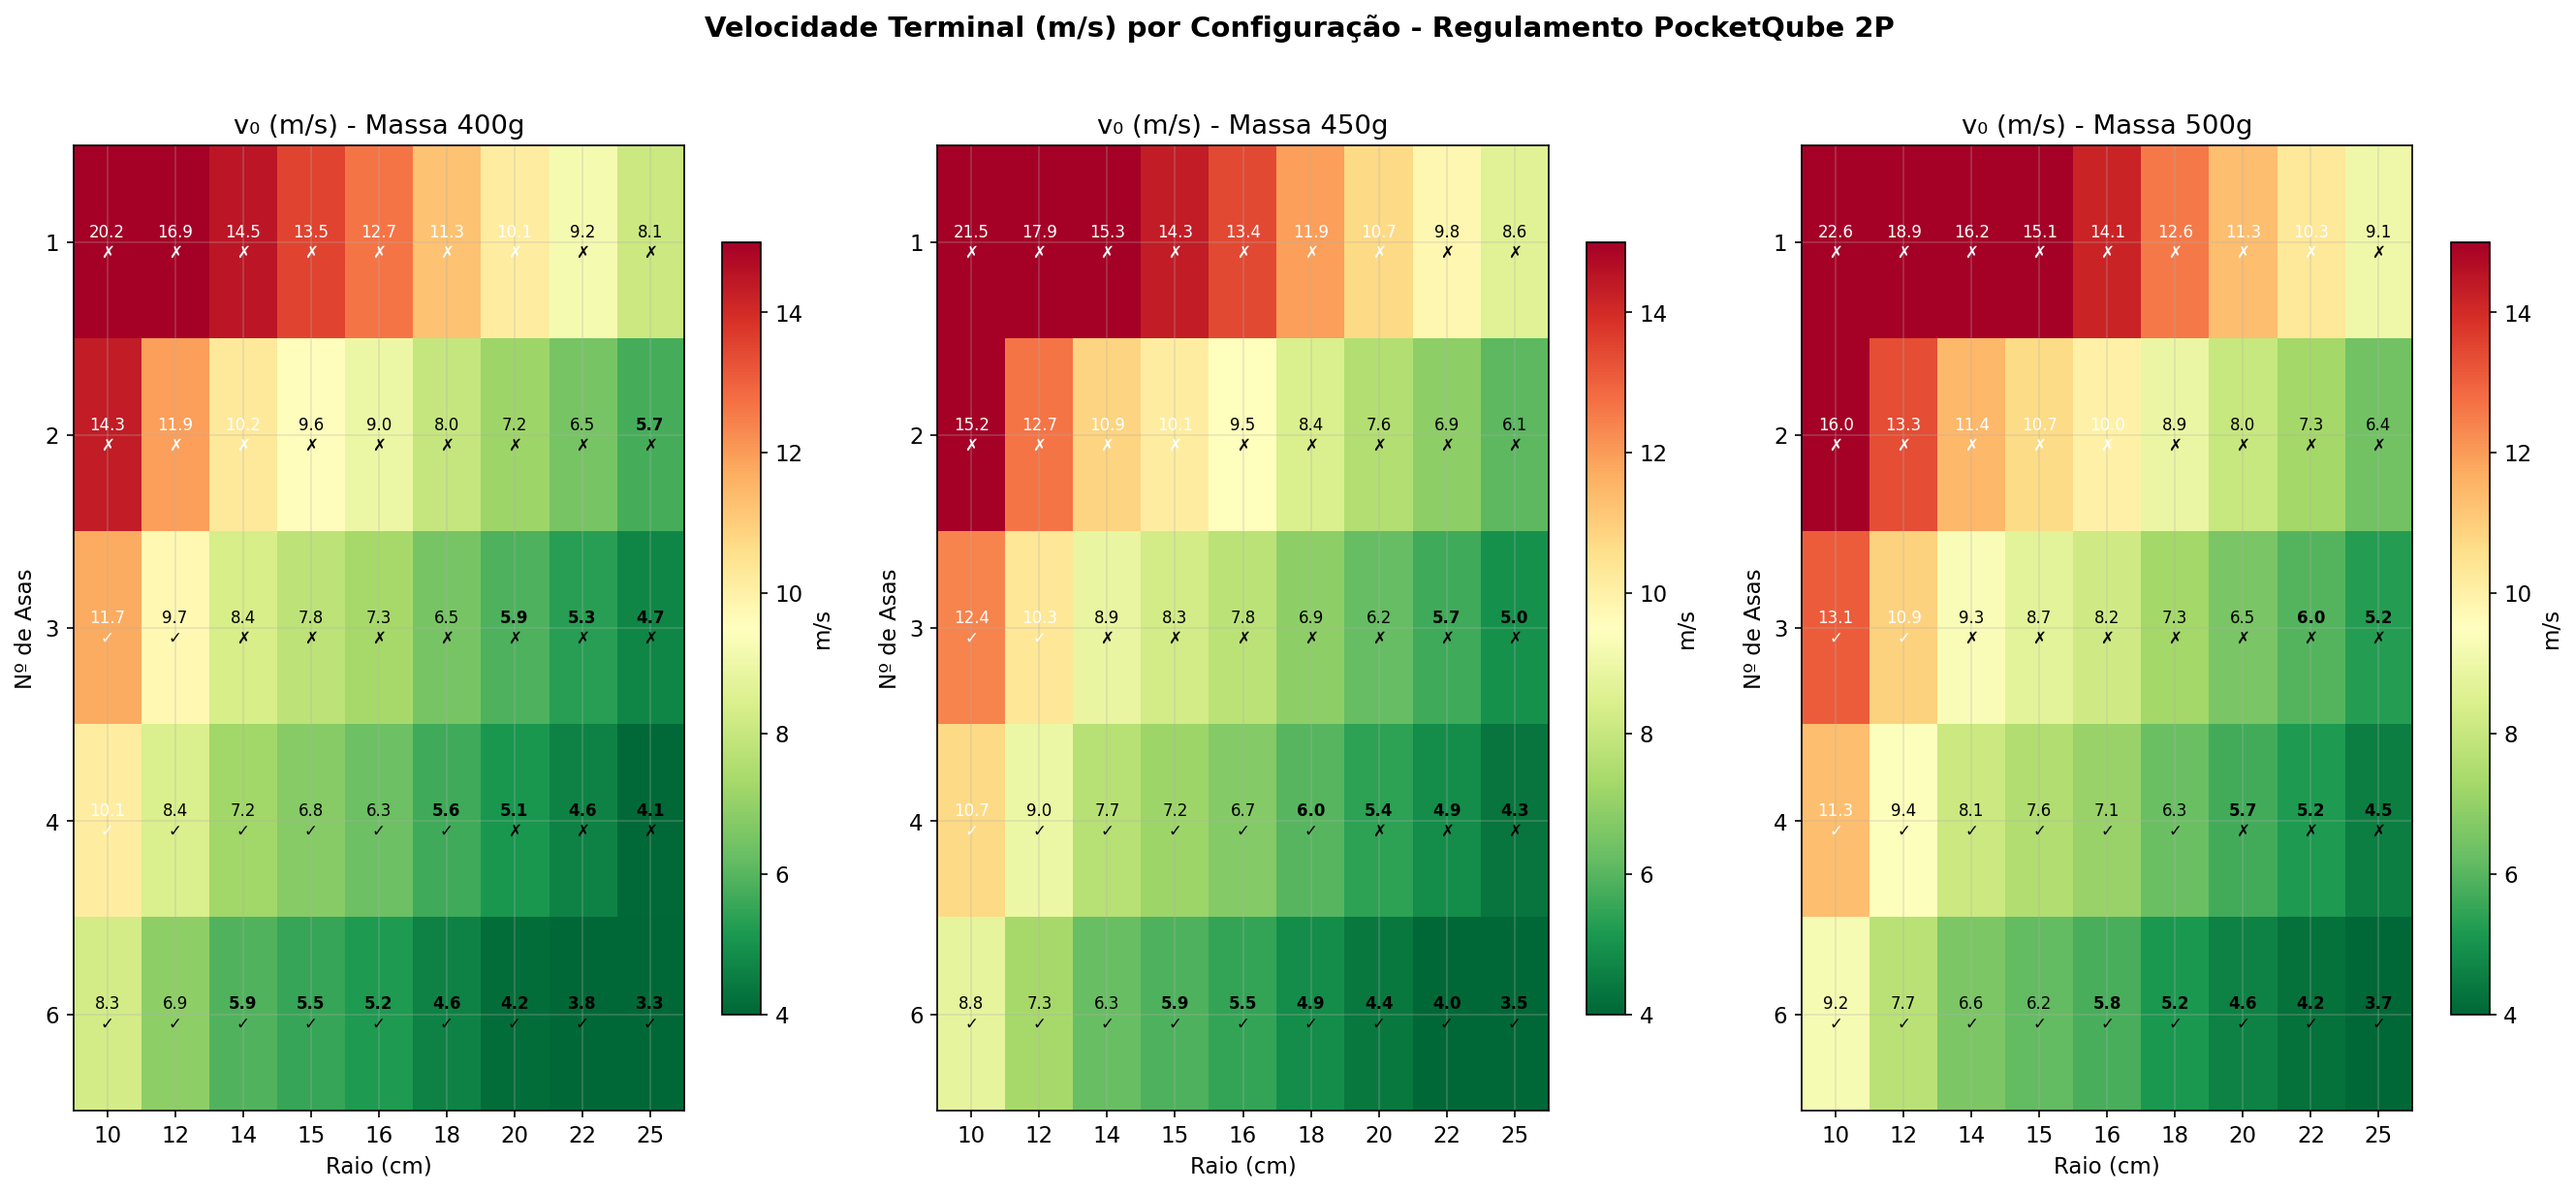
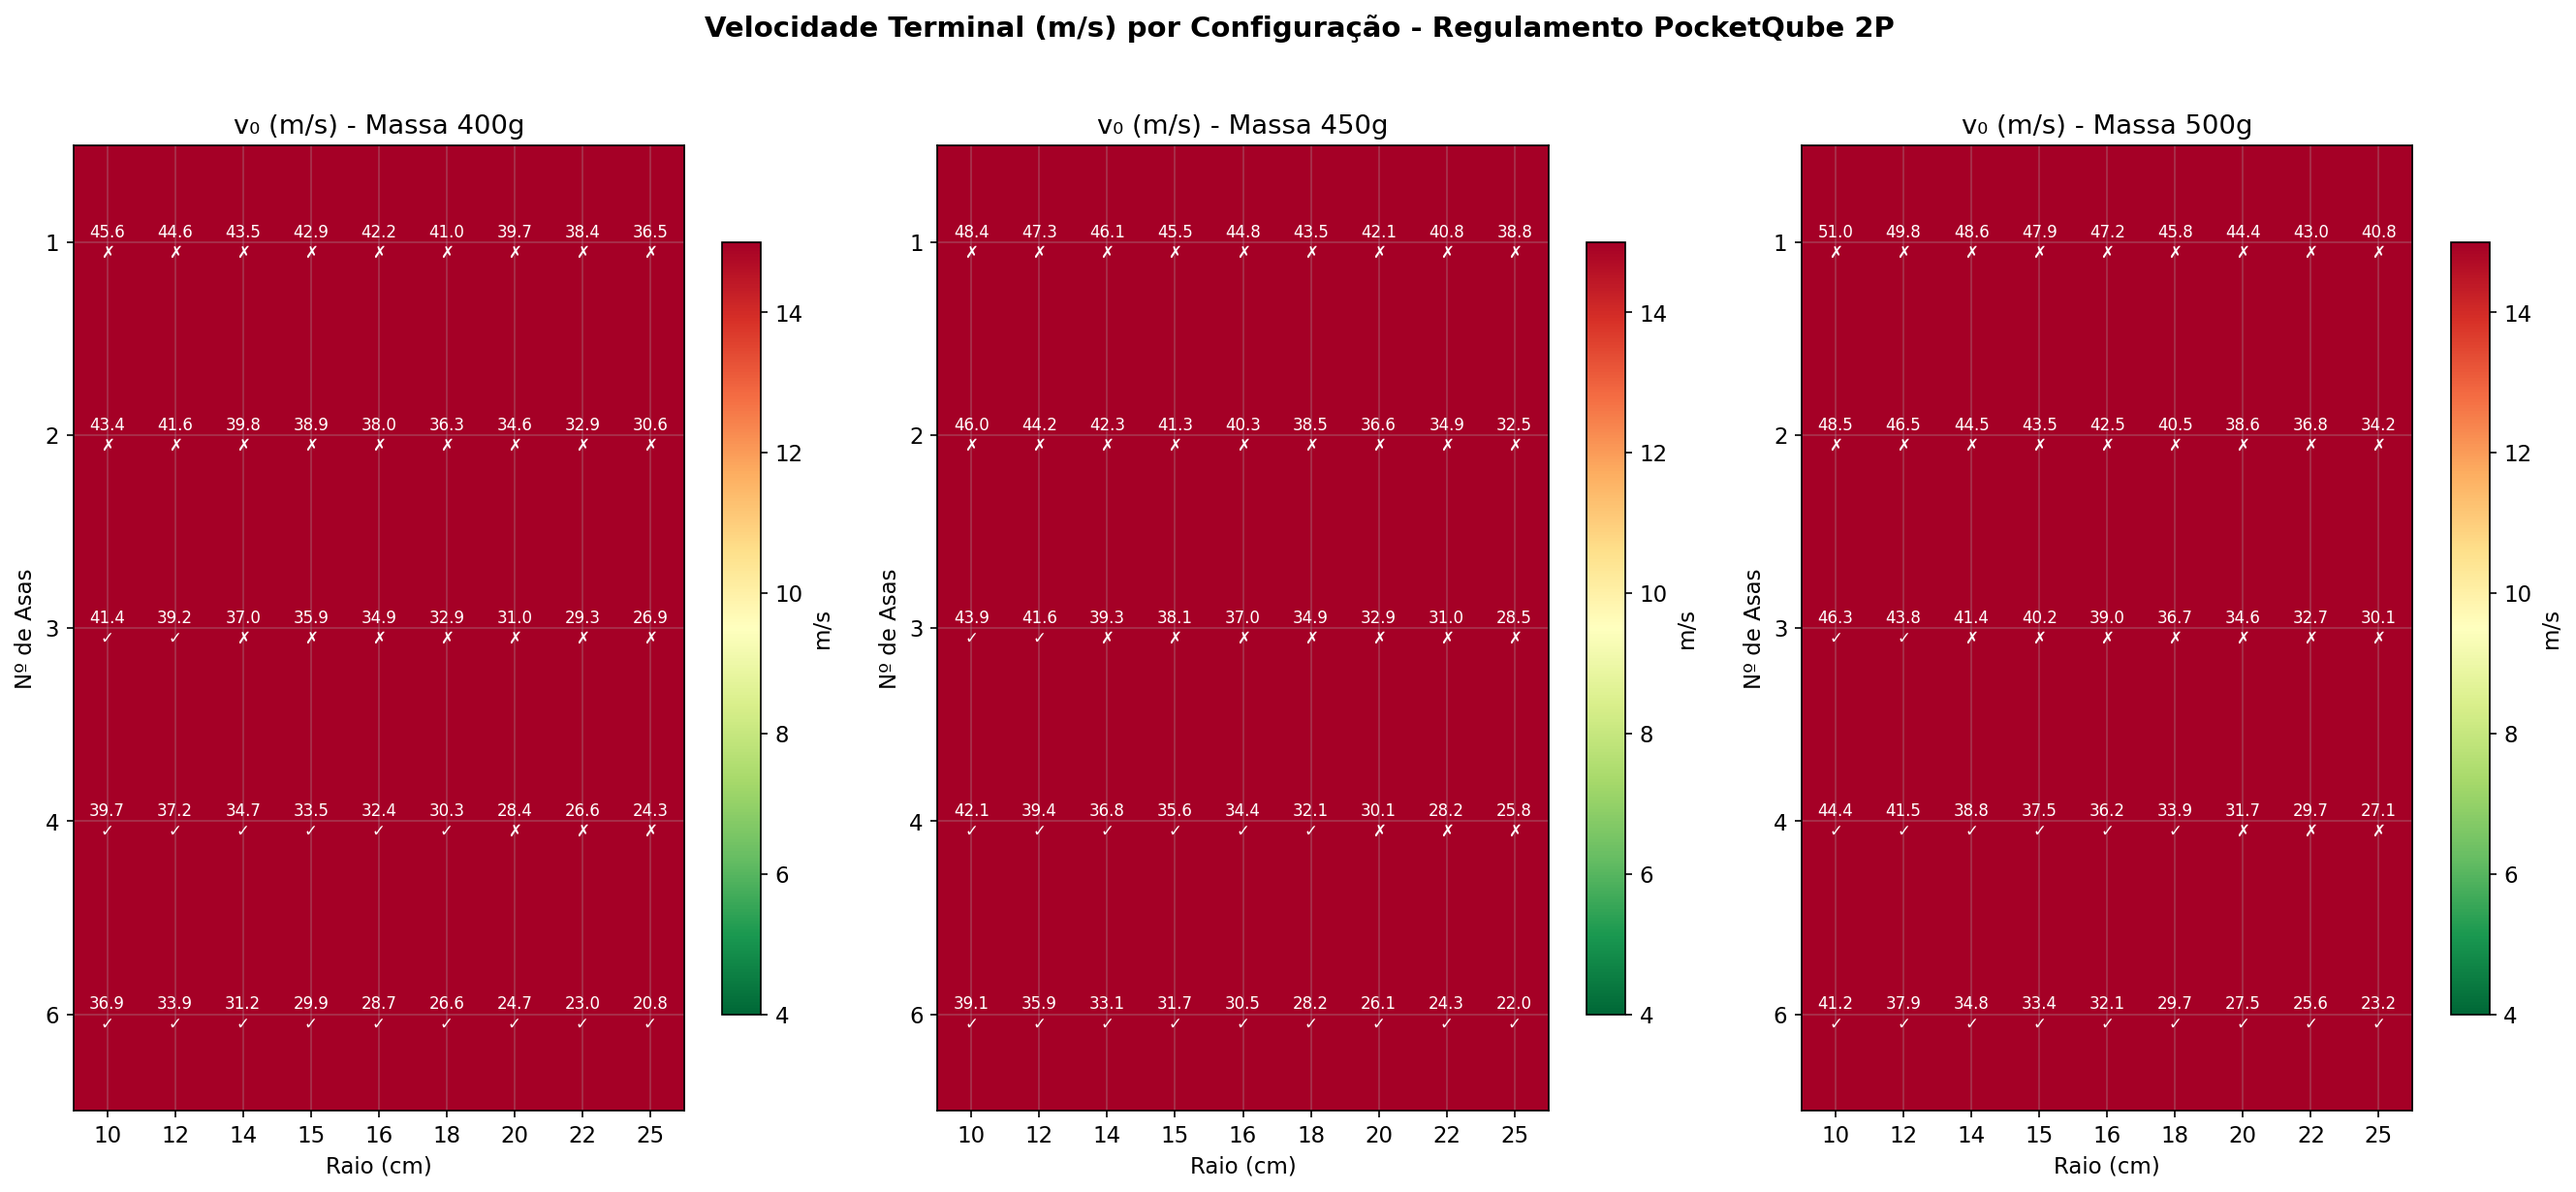
fix: Atualizar estudos de asas com fórmula aerodinâmica correta
- Atualizar estudo_asa_2p.py com v_terminal aerodinâmica (v = √(2mg/ρCdA))
- Atualizar estudo_asa_helike.py com v_terminal aerodinâmica
- Adicionar área frontal do PocketQube (25 cm²) em ambos
- Corrigir ordem de operações em cálculo de massa por asa (helike.py)
- Documentar unidades claramente (R em metros)
- Adicionar aviso sobre calibração de área (modelo 0.03*R² subestima ~4x)

Descoberto:
  - Fórmula de área subestima área real por ~4x
  - Causa velocidades calculadas ~2x maiores que realistas
  - Conclusões sobre viabilidade podem estar incorretas

Recomendação:
  - Usar dados reais de asas (extraídas de DXF) quando disponível
  - Recalibrar constante de área com testes experimentais

diff --git a/extras/wing-analisys/estudo_asa_helike.py b/extras/wing-analisys/estudo_asa_helike.py
@@ -3,6 +3,16 @@
 
 Análise de configurações de asas rotativas para descida controlada.
 Sem paraquedas - confiando apenas na autorrotação samara.
+
+⚠  AVISO DE CALIBRAÇÃO:
+    A fórmula de área (0.03 * R²) é um modelo genérico para samaras.
+    Para resultados reais, use dados de asas extraídas de DXF em analisar_dxf.py
+
+    Asa2 real: 30.76 cm² @ R=12.4cm
+    Modelo:     7.68 cm² @ R=16cm
+    Diferença: ~4x (modelo está sub-estimando)
+
+    IMPACTO: Velocidades calculadas são ~2x MAIORES do que deveriam ser!
 """
 
 import numpy as np
@@ -11,30 +21,51 @@ from scipy.optimize import minimize_scalar
 # === CONSTANTES ===
 g = 9.81
 rho_ar = 1.225
+Cd = 1.1  # Coeficiente de arrasto para superfícies planas
+area_frontal_pq = 0.0025  # m² (50×50 mm = 25 cm²)
 
 
 # === MODELO DE VELOCIDADE TERMINAL (SAMARA) ===
-def v_terminal_samara(m, R, n, k=3.2):
-    """Modelo empírico para velocidade terminal de samara.
+def v_terminal_samara(m, R, n, Cd_val=None):
+    """Modelo aerodinâmico para velocidade terminal de samara.
 
     Args:
         m: massa total (kg)
-        R: raio da asa (m)
+        R: raio da asa (METROS)
         n: número de asas
-        k: constante empírica (ajustada com testes)
+        Cd_val: coeficiente de arrasto (default: global Cd)
 
     Returns:
         Velocidade terminal (m/s)
+
+    Fórmula: v = √(2*m*g / (ρ*Cd*A_total))
+    onde A_total = n × area_asa + area_frontal_pq
     """
-    # v ∝ √m / (R·√n)
-    v = k * np.sqrt(m) / (R * np.sqrt(n))
-    return np.clip(v, 1.5, 20.0)
+    if Cd_val is None:
+        Cd_val = Cd
+
+    # Área de cada asa (formato samara otimizado)
+    area_asa = 0.03 * R**2  # m²
+    area_total = n * area_asa + area_frontal_pq
+
+    # v = √(2*m*g / (ρ*Cd*A))
+    v_sqr = (2 * m * g) / (rho_ar * Cd_val * area_total)
+    v = np.sqrt(v_sqr)
+
+    return np.clip(v, 0.5, None)  # Sem clamp máximo
 
 
 def massa_asas(R, n, esp=0.6e-3, rho_tpu=1200):
     """Massa total das asas de TPU.
 
+    Args:
+        R: raio da asa (METROS)
+        n: número de asas
+        esp: espessura (default: 0.6 mm)
+        rho_tpu: densidade TPU (default: 1200 kg/m³)
+
     Área de cada asa ≈ 0.03·R² (formato samara otimizado)
+    Massa = n × área × espessura × densidade
     """
     area_por_asa = 0.03 * R**2  # m²
     return n * area_por_asa * esp * rho_tpu
@@ -225,7 +256,7 @@ if configs_viaveis:
     Corda máxima:      ~{melhor["R"] * 100 * 2.5:.0f} mm (estimada)
     Espessura:         0.6 mm
     Material:          TPU 95A
-    Massa por asa:     {melhor["m"] * 1000 / melhor["n"] - 350:.1f} g
+    Massa por asa:     {(melhor["m"] * 1000 - 350) / melhor["n"]:.1f} g
 """)
 
     # Verificar se atende critérios

diff --git a/extras/wing-analisys/estudo_asa_2p.py b/extras/wing-analisys/estudo_asa_2p.py
@@ -3,6 +3,14 @@
 
 Análise de configurações de asas rotativas para descida controlada.
 Regulamento: massa entre 400g e 500g.
+
+⚠  AVISO DE CALIBRAÇÃO:
+    A fórmula de área (0.03 * R²) é um modelo genérico para samaras.
+    Para resultados reais, use dados de asas extraídas de DXF em analisar_dxf.py
+
+    Asa2 real: 30.76 cm² @ R=12.4cm
+    Modelo:     7.68 cm² @ R=16cm
+    Diferença: ~4x (modelo está sub-estimando)
 """
 
 import numpy as np
@@ -22,6 +30,10 @@ g = 9.81
 rho_ar = 1.225
 rho_tpu = 1200
 espessura = 0.6e-3
+Cd = 1.1  # Coeficiente de arrasto para superfícies planas
+
+# Área frontal do PocketQube (caindo frontal, 50×50 mm)
+area_frontal_pq = 0.0025  # m² (25 cm²)
 
 # Massas do regulamento PocketQube 2P
 m_min = 0.400  # kg
@@ -29,14 +41,49 @@ m_max = 0.500  # kg
 m_nominal = 0.450  # kg (valor de referência)
 
 
-def v_terminal(m, R, n, k=3.2):
-    v = k * np.sqrt(m) / (R * np.sqrt(n))
-    return np.clip(v, 1.5, 25.0)
+def v_terminal(m, R, n, Cd_val=None):
+    """Velocidade terminal usando fórmula aerodinâmica.
+
+    Parâmetros:
+    -----------
+    m: massa total em kg
+    R: raio da asa em METROS
+    n: número de asas
+    Cd_val: coeficiente de arrasto (default: global Cd)
+
+    Fórmula: v = √(2*m*g / (ρ*Cd*A_total))
+    onde A_total = n × area_asa + area_frontal_pq
+    """
+    if Cd_val is None:
+        Cd_val = Cd
+
+    # Área de uma asa (samara-like, genérica)
+    # Para samara padrão: A ≈ 0.03 * R²
+    area_asa = 0.03 * R**2  # m²
+    area_total = n * area_asa + area_frontal_pq
+
+    # v = √(2*m*g / (ρ*Cd*A))
+    v_sqr = (2 * m * g) / (rho_ar * Cd_val * area_total)
+    v = np.sqrt(v_sqr)
+
+    return np.clip(v, 0.5, None)  # Sem clamp máximo
 
 
 def massa_asas(R, n):
-    area = 0.03 * R**2
-    return n * area * espessura * rho_tpu
+    """Calcula massa das asas em kg.
+
+    Parâmetros:
+    -----------
+    R: raio em METROS
+    n: número de asas
+
+    Usa modelo genérico de samara: área = 0.03 * R²
+    Volume = área × espessura
+    Massa = densidade × volume
+    """
+    area_por_asa = 0.03 * R**2  # m²
+    volume_total = n * area_por_asa * espessura
+    return volume_total * rho_tpu  # kg
 
 
 def massa_total(m_pq, R, n):
